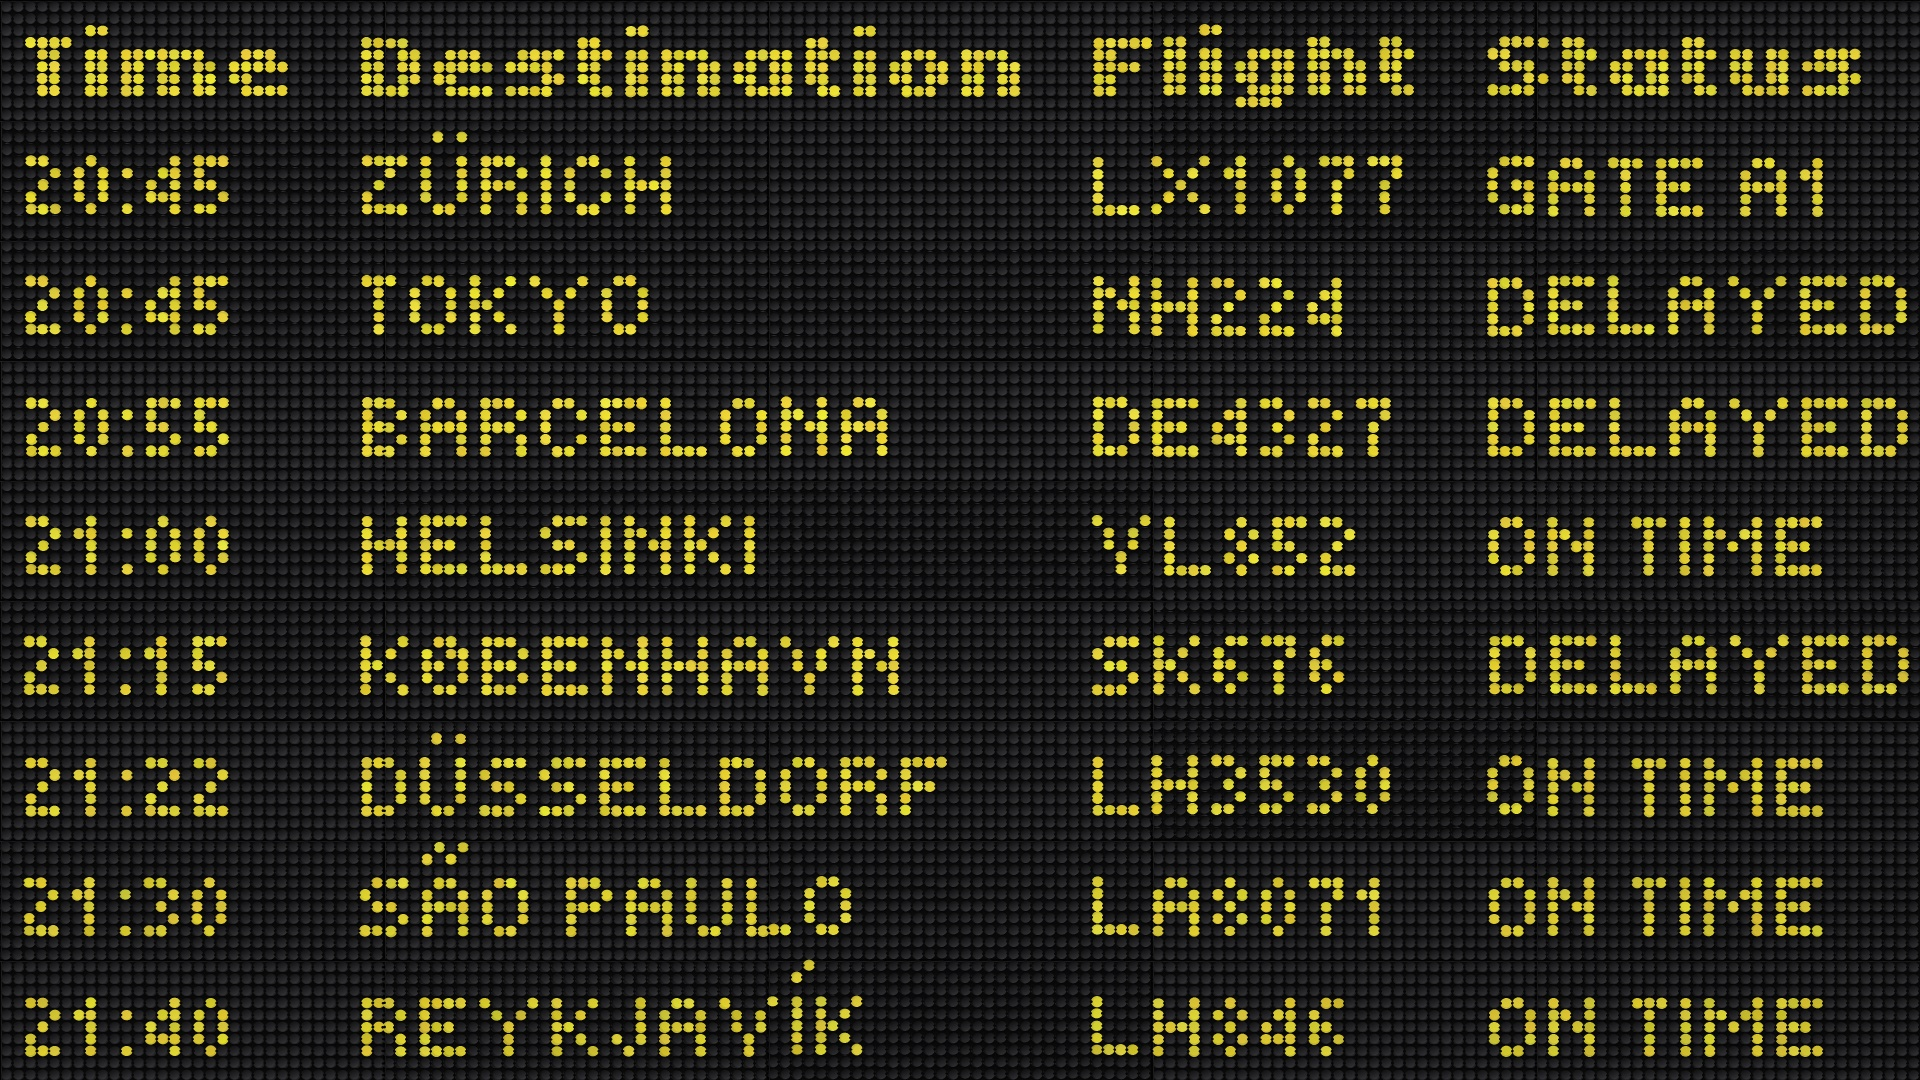
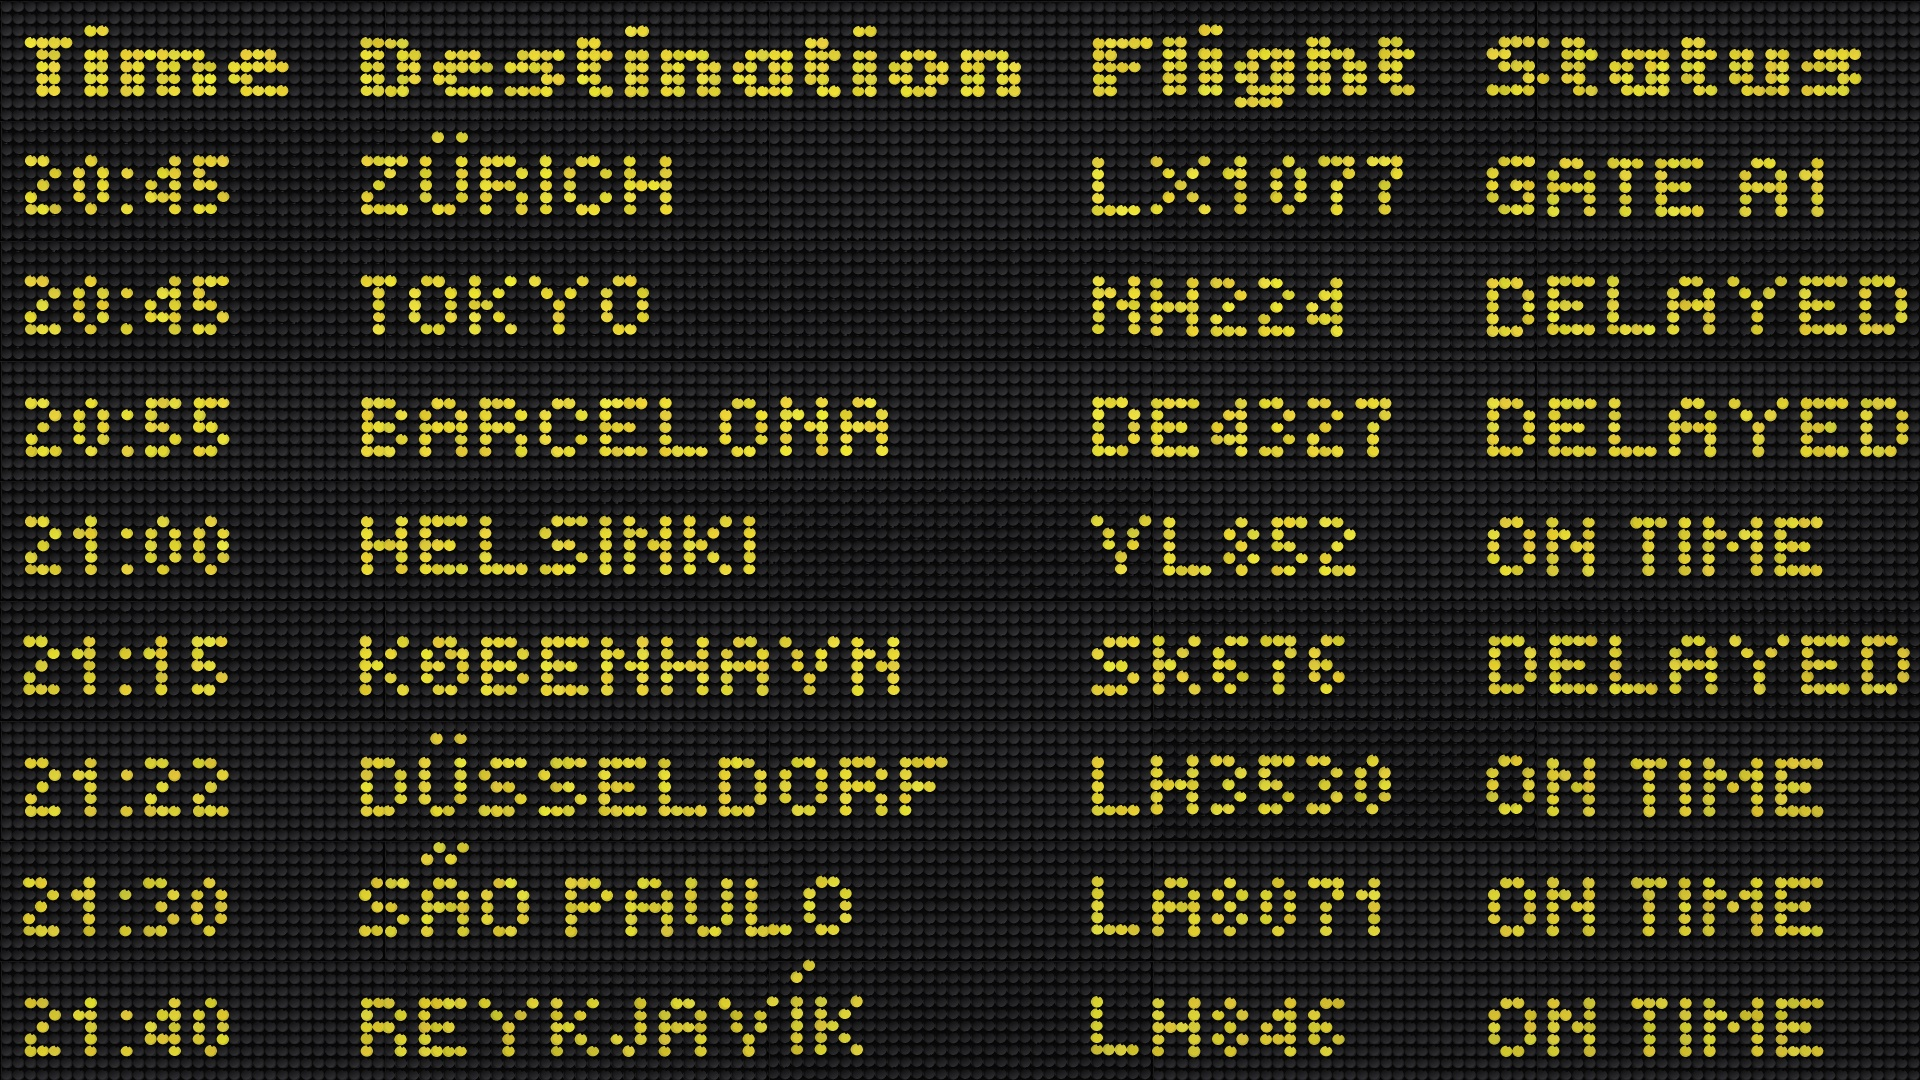
Specimen update

diff --git a/documentation/build-specimen.py b/documentation/build-specimen.py
@@ -590,9 +590,11 @@ FLIP_DARK = (58, 58, 62)        # the black face of a disc, at its brightest
 FLIP_YELLOW = (250, 232, 60)    # day-glo, so it reads brighter than paper
 FLIP_YELLOW_SCATTER = (8, 8, 10)  # how far one disc's pigment strays from it, per channel
 FLIP_YELLOW_FADE = 0.03         # and how much one disc has bleached, of its brightness
-FLIP_RADIUS = 0.48              # disc radius, in cells: they nearly touch
-FLIP_BITE = 0.09                # the notch bitten out of a disc at each of the two
-                                # points where it is hung, in cells
+FLIP_RADIUS = 0.49              # disc radius, in cells: they practically touch
+FLIP_BITE = 0.09                # the notch bitten out of a disc where it is hung,
+                                # in cells
+FLIP_BITE_ANGLE = 15            # and where that notch sits, in degrees clockwise
+                                # from the top: one o'clock
 FLIP_RIM = 0.62                 # the rim of a black disc, turned from the light
 FLIP_LIT_RIM = 0.90             # a day-glo face barely shades towards its rim
 FLIP_RIM_START = 0.76           # where the rim starts, in fractions of radius
@@ -708,9 +710,9 @@ def draw_discs(size, layout, bite, shaded=True):
     """Draw the discs of a layout into a mask, each at its own brightness,
     or all full on for a plain cut-out.
 
-    A disc is not quite a circle. It hangs on its shaft by a tab at either
-    side, and is bitten away around each of them, so that where two discs
-    meet along a row the dark of the frame shows through between them.
+    A disc is not quite a circle. It hangs off its shaft by a single tab,
+    and is bitten away around it, up at one o'clock; the discs sit so close
+    that this notch is where the dark of the panel behind shows through.
     Every disc is laid down before any bite is taken, or a neighbour coming
     afterwards would fill one in again.
     """
@@ -719,11 +721,11 @@ def draw_discs(size, layout, bite, shaded=True):
     for x, y, rx, ry, level in layout:
         draw.ellipse(xy=[x - rx, y - ry, x + rx, y + ry],
                      fill=max(0, min(255, round(255 * level))) if shaded else 255)
+    angle = math.radians(FLIP_BITE_ANGLE)
+    ux, uy = math.sin(angle), -math.cos(angle)
     for x, y, rx, ry, level in layout:
-        for side in (-1, 1):
-            hinge = x + side * rx
-            draw.ellipse(xy=[hinge - bite, y - bite, hinge + bite, y + bite],
-                         fill=0)
+        hx, hy = x + ux * rx, y + uy * ry
+        draw.ellipse(xy=[hx - bite, hy - bite, hx + bite, hy + bite], fill=0)
 
     return mask
 
